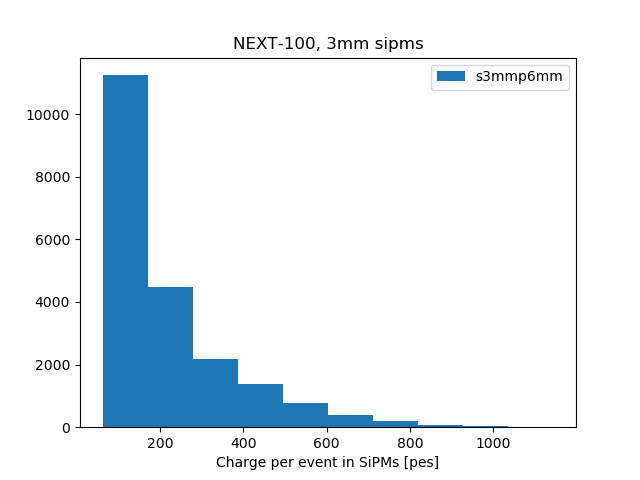
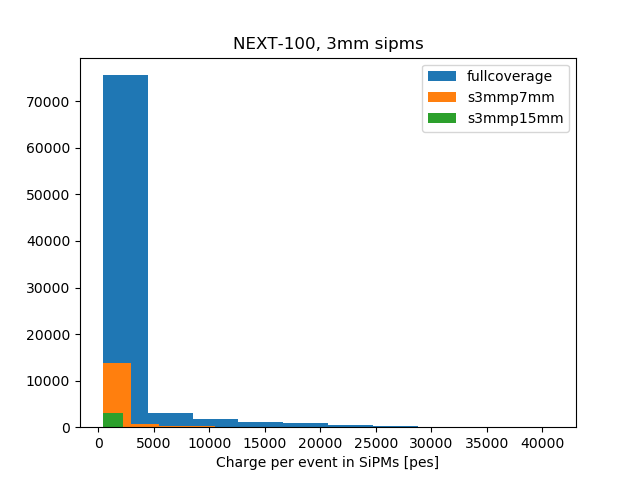
Edited for high energy events

diff --git a/sipmstudy_distr.py b/sipmstudy_distr.py
@@ -22,6 +22,7 @@ local = False
 
 # Create dictionary to hold run info
 print("Creating dictionaries")
+s3p3 = {"size":3, "pitch":3, "dir":"fullcoverage"}
 s3p6 = {"size":3, "pitch":6, "dir": "s3mmp6mm"}
 s3p7 = {"size":3, "pitch":7, "dir": "s3mmp7mm"}
 s3p8 = {"size":3, "pitch":8, "dir": "s3mmp8mm"}
@@ -35,11 +36,14 @@ if local:
     mcs = [s3p15]
 else:
     outdir = '/n/holystore01/LABS/guenette_lab/Users/tcontreras/trackingplane/plots/'
-    indir = "/n/holystore01/LABS/guenette_lab/Users/tcontreras/nexus-production/output/teflonhole_5mm/"
-    mcs = [s3p6] #, s3p7, s3p8, s3p9, s3p10, s3p15]
+    indir = "/n/holystore01/LABS/guenette_lab/Users/tcontreras/nexus-production/output/highenergy/"
+    mcs = [s3p3, s3p7, s3p15] #, s3p7, s3p8, s3p9, s3p10, s3p15]
     
 for mc in mcs:
-    mc["files"] = [indir+mc['dir']+"/flex.kr83m."+str(i)+".nexus.h5" for i in range(1,nfiles+1)]
+    if mc['dir'] == "fullcoverage":
+        mc["files"] = [indir+mc['dir']+"/flex.kr83m."+str(i)+".nexus.h5" for i in range(1,nfiles+1)]
+    else:
+        mc["files"] = [indir+'teflonhole_5mm/'+mc['dir']+"/flex.kr83m."+str(i)+".nexus.h5" for i in range(1,nfiles+1)]
     
     
 for mc in mcs:
